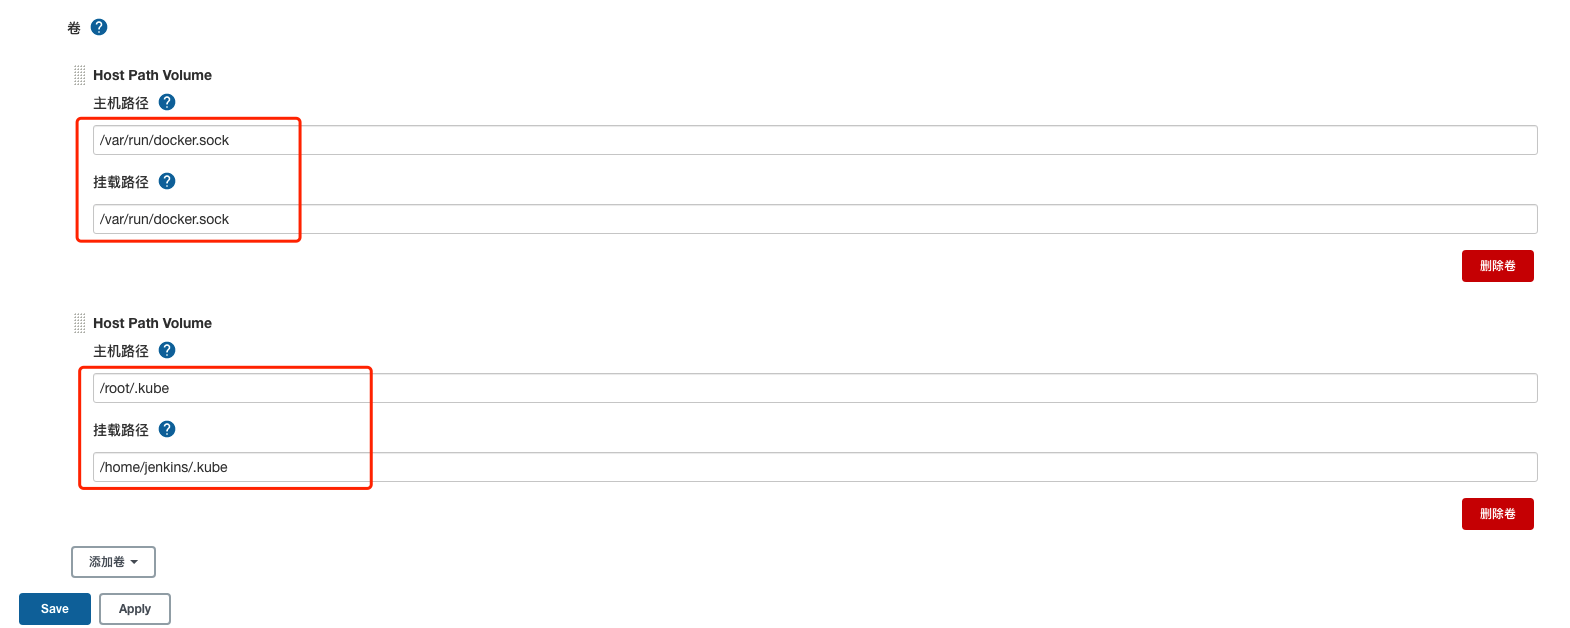
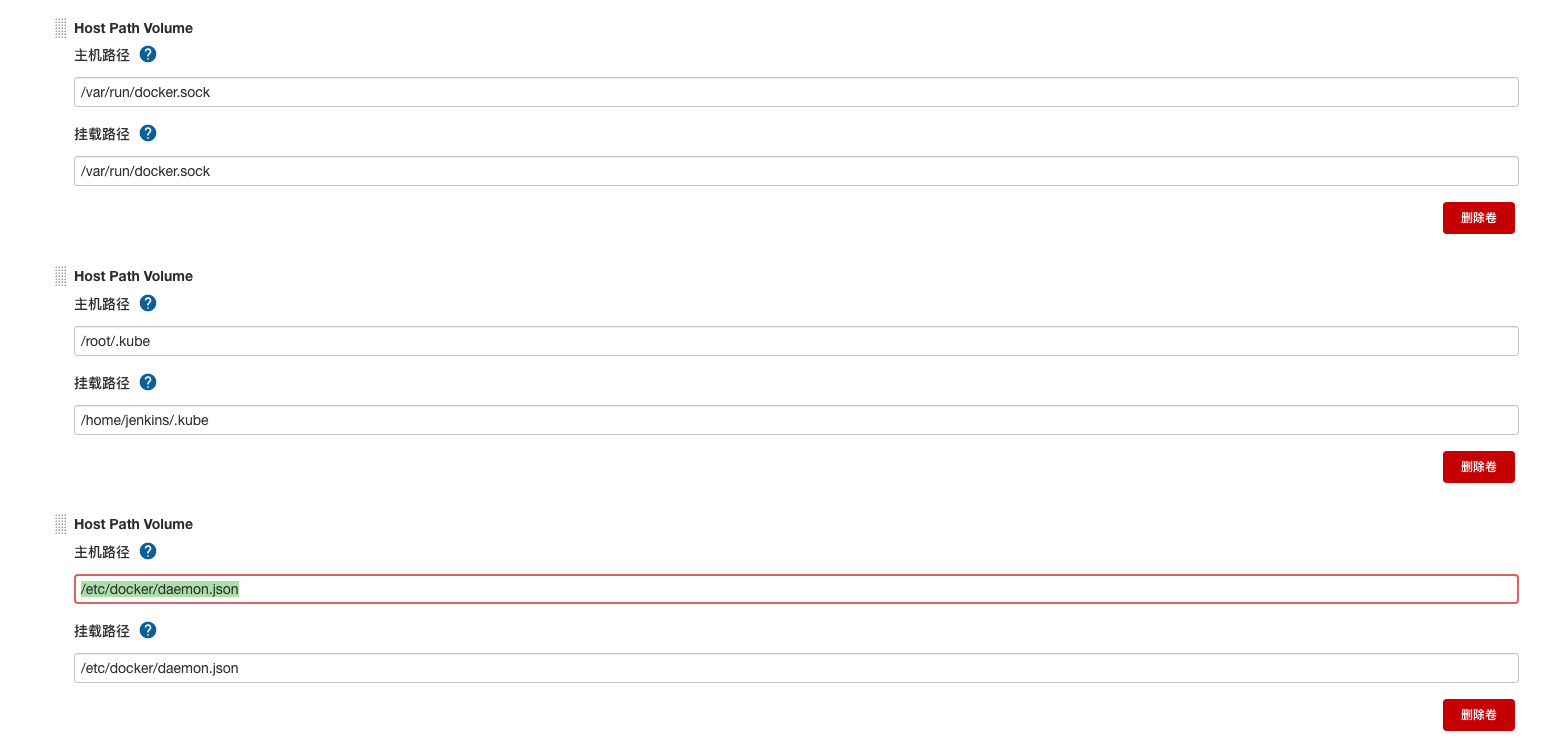
jenkins slave pod配置

diff --git a/84.Jenkins-创建jenkins slave pod模板.md b/84.Jenkins-创建jenkins slave pod模板.md
@@ -11,15 +11,7 @@
 ![image](https://github.com/498946975/DevOps/blob/master/images/jenkins09.png)
 ![image](https://github.com/498946975/DevOps/blob/master/images/jenkins10.png)
 ![image](https://github.com/498946975/DevOps/blob/master/images/jenkins11.png)
-#### 2、添加卷信息
-```shell script
-/var/run/docker.sock: 在容器中需要用到docker命令
-/home/jenkins/.kube: 容器中需要需用到kubectl命令
-/etc/docker/daemon.json: 登陆harbor仓库的时候,必须添加的配置
-```
-![image](https://github.com/498946975/DevOps/blob/master/images/jenkins12png)
-![image](https://github.com/498946975/DevOps/blob/master/images/jenkins13.png)
-#### 3、添加容器信息
+#### 2、添加容器信息
 ![image](https://github.com/498946975/DevOps/blob/master/images/jenkins14.png)
 ```shell script
 名称: jnlp(必须是jnlp)
@@ -29,6 +21,15 @@ Docker 镜像: jenkins/jnlp-slave:latest
 ✅分配伪终端
 ```
 ![image](https://github.com/498946975/DevOps/blob/master/images/jenkins15.png)
+#### 3、添加卷信息
+```shell script
+/var/run/docker.sock: 在容器中需要用到docker命令
+/home/jenkins/.kube: 容器中需要需用到kubectl命令
+/etc/docker/daemon.json: 登陆harbor仓库的时候,必须添加的配置
+```
+![image](https://github.com/498946975/DevOps/blob/master/images/jenkins12.png)
+![image](https://github.com/498946975/DevOps/blob/master/images/jenkins13.png)
+
 #### 4、给salve节点配置sa
 ```shell script
 Service Account: jenkins-k8s-sa
